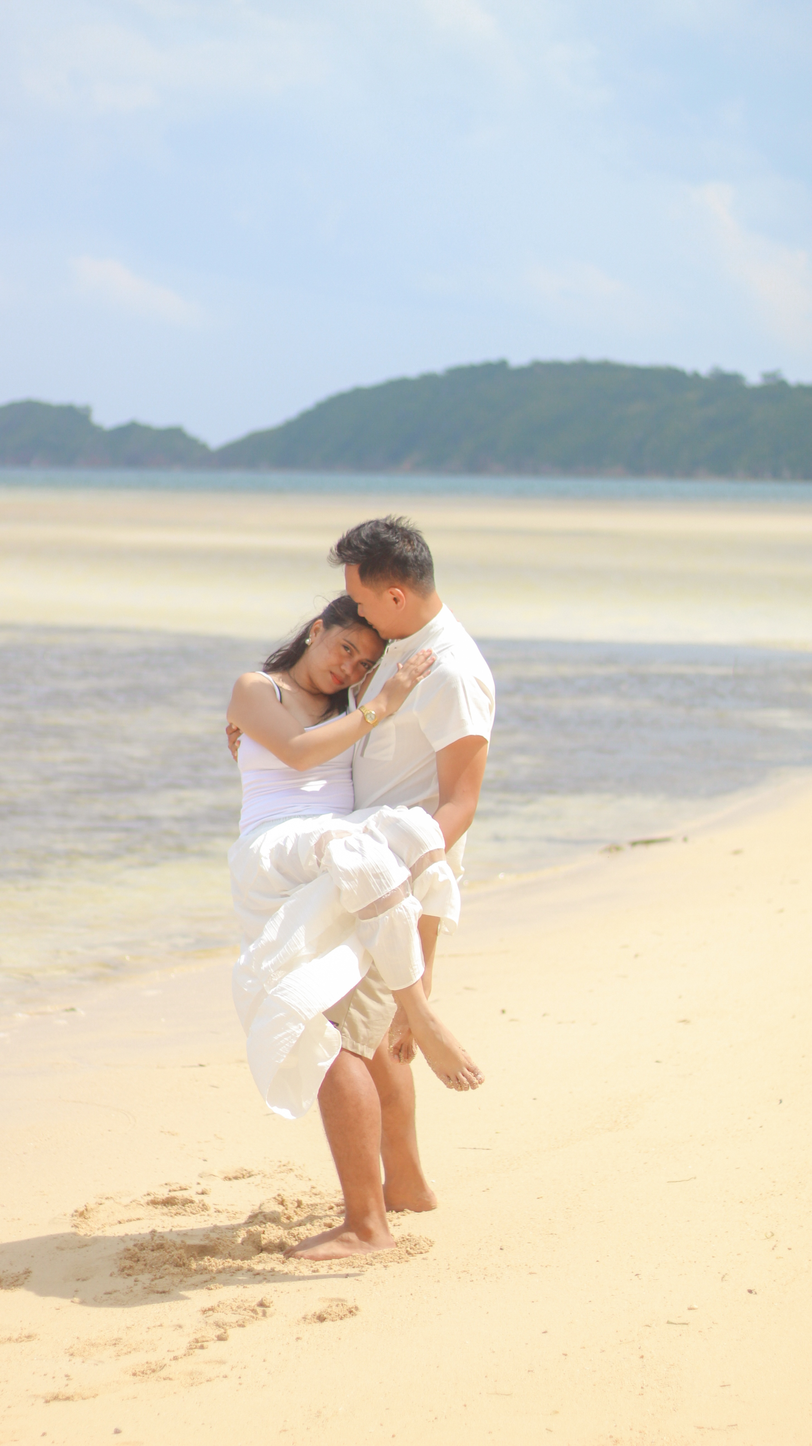
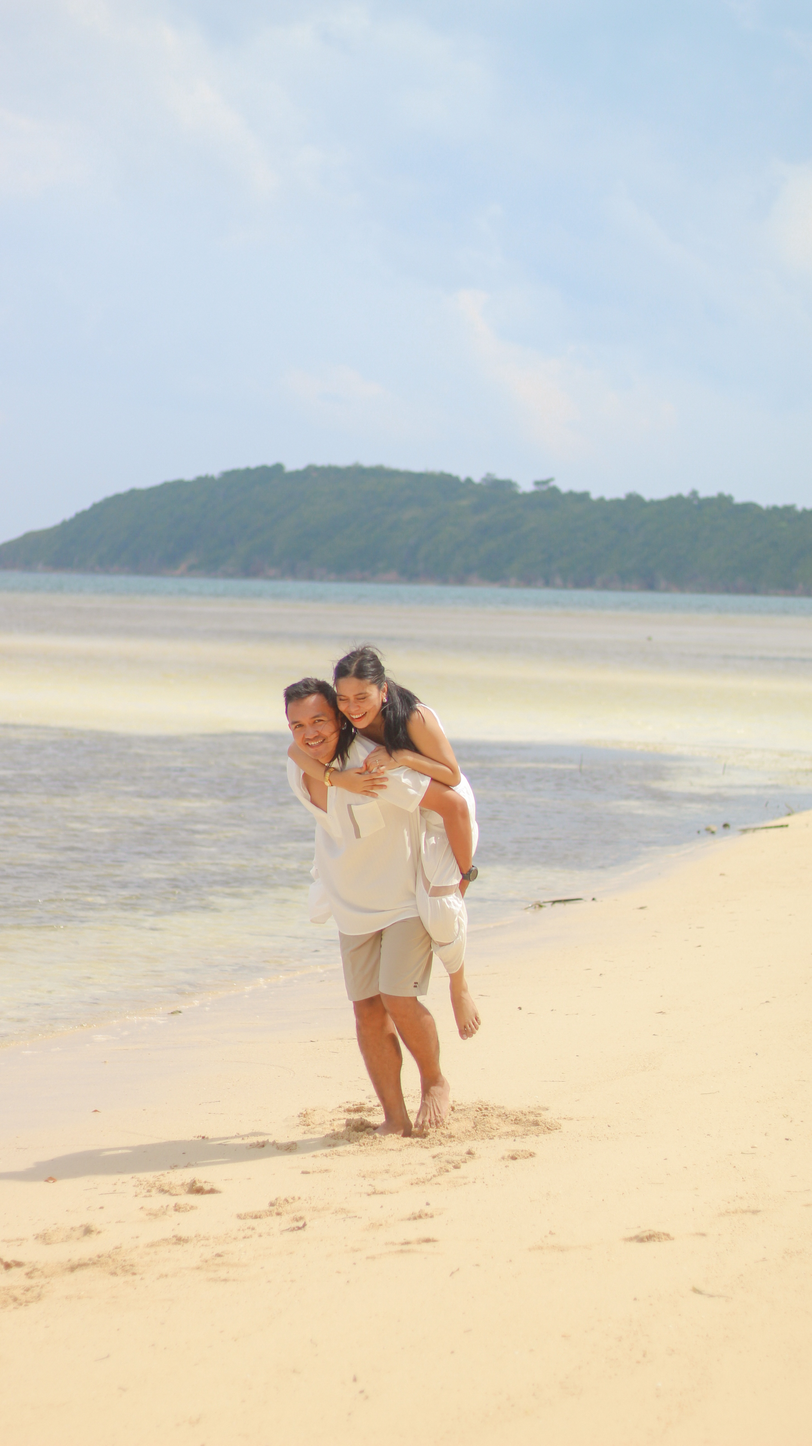
s

diff --git a/src/App.tsx b/src/App.tsx
@@ -219,14 +219,14 @@ function Hero() {
           Together Forever
         </p>
 
-        <h1 className="mb-4 font-display font-light leading-none text-white">
-          <span className="block text-6xl italic md:text-8xl lg:text-9xl">
+        <h1 className="mb-4 font-display font-light leading-[0.9] text-white">
+          <span className="block text-6xl italic md:text-8xl lg:text-[9rem]">
             Aileen
           </span>
           <span className="my-3 block text-sm font-body font-light uppercase tracking-[0.4em] text-[#f1d8a8] md:text-base">
             &amp;
           </span>
-          <span className="block text-6xl italic md:text-8xl lg:text-9xl">
+          <span className="block text-6xl italic md:text-8xl lg:text-[9rem]">
             Christian Jade
           </span>
         </h1>
@@ -250,12 +250,20 @@ function Hero() {
           </p>
         </div>
 
-        <a
-          href="#rsvp"
-          className="mt-10 inline-block border border-[#f1d8a8]/80 px-8 py-3 font-body text-xs uppercase tracking-[0.25em] text-[#f1d8a8] transition-all duration-300 hover:bg-[#f1d8a8] hover:text-[#2a1a0e]"
-        >
-          RSVP
-        </a>
+        <div className="mt-10 flex flex-col items-center gap-4 sm:flex-row sm:gap-6">
+          <a
+            href="#rsvp"
+            className="inline-block border border-[#f1d8a8]/80 bg-[#f1d8a8]/10 px-8 py-3 font-body text-xs uppercase tracking-[0.25em] text-[#f1d8a8] transition-all duration-300 hover:-translate-y-0.5 hover:bg-[#f1d8a8] hover:text-[#2a1a0e]"
+          >
+            RSVP
+          </a>
+          <a
+            href="#story"
+            className="font-body text-[10px] uppercase tracking-[0.25em] text-white/75 transition-colors duration-300 hover:text-[#f1d8a8]"
+          >
+            Our Story
+          </a>
+        </div>
       </div>
 
       <div className="hero-float absolute bottom-8 left-1/2 z-10 -translate-x-1/2">
@@ -397,13 +405,13 @@ function OurStory() {
             />
           </div>
           <div>
-            <p className="font-display italic text-[#4a3728] text-2xl md:text-3xl font-light leading-relaxed mb-6">
-              "Love is not just looking at each other, it's looking in the same direction."
-            </p>
+            <div className="story-quote mb-6">
+              <p className="font-display italic text-[#4a3728] text-2xl md:text-3xl font-light leading-relaxed">
+                "Love is not just looking at each other, it's looking in the same direction."
+              </p>
+            </div>
             <p className="font-body text-[#7a5c48] leading-relaxed text-sm">
-              Aileen and Christian Jade’s story began long before they became a couple. They first met as classmates in the second grade, crossing paths again years later as college classmates. For four years, they shared the same classroom, the same seasons of growing up, and countless ordinary moments—never knowing that one day, those familiar moments would become the beginning of something much more beautiful.
-
-It was only after graduation that their friendship slowly blossomed into love. What began as years of knowing each other became a journey of choosing each other, growing together, and building a life side by side.
+              Aileen and Christian Jade’s story began long before they became a couple. They first met as classmates in the second grade and crossed paths again years later as college classmates. What started as friendship and familiarity slowly grew into a love story rooted in trust, laughter, and the quiet comfort of choosing one another again and again.
             </p>
           </div>
         </div>
@@ -614,7 +622,7 @@ function RSVP() {
               <div className="mb-3 flex items-center gap-3 text-[#b89a6a]">
                 <span className="text-lg">❧</span>
                 <p className="font-body tracking-[0.2em] text-[10px] uppercase text-[#b89a6a]">
-                  Note
+                  Important Notes
                 </p>
               </div>
 

diff --git a/src/index.css b/src/index.css
@@ -156,6 +156,20 @@ input, select, textarea {
   animation: spin 0.8s linear infinite;
 }
 
+.hero-card {
+  padding: 1.25rem 1.5rem;
+  border: 1px solid rgba(241, 216, 168, 0.4);
+  background: rgba(74, 55, 40, 0.16);
+  backdrop-filter: blur(2px);
+  box-shadow: 0 20px 45px rgba(18, 12, 8, 0.18);
+}
+
+.story-quote {
+  position: relative;
+  padding-left: 1.25rem;
+  border-left: 1px solid rgba(184, 154, 106, 0.7);
+}
+
 .hero-fade {
   animation: fade-up 1.2s ease-in-out both;
 }
